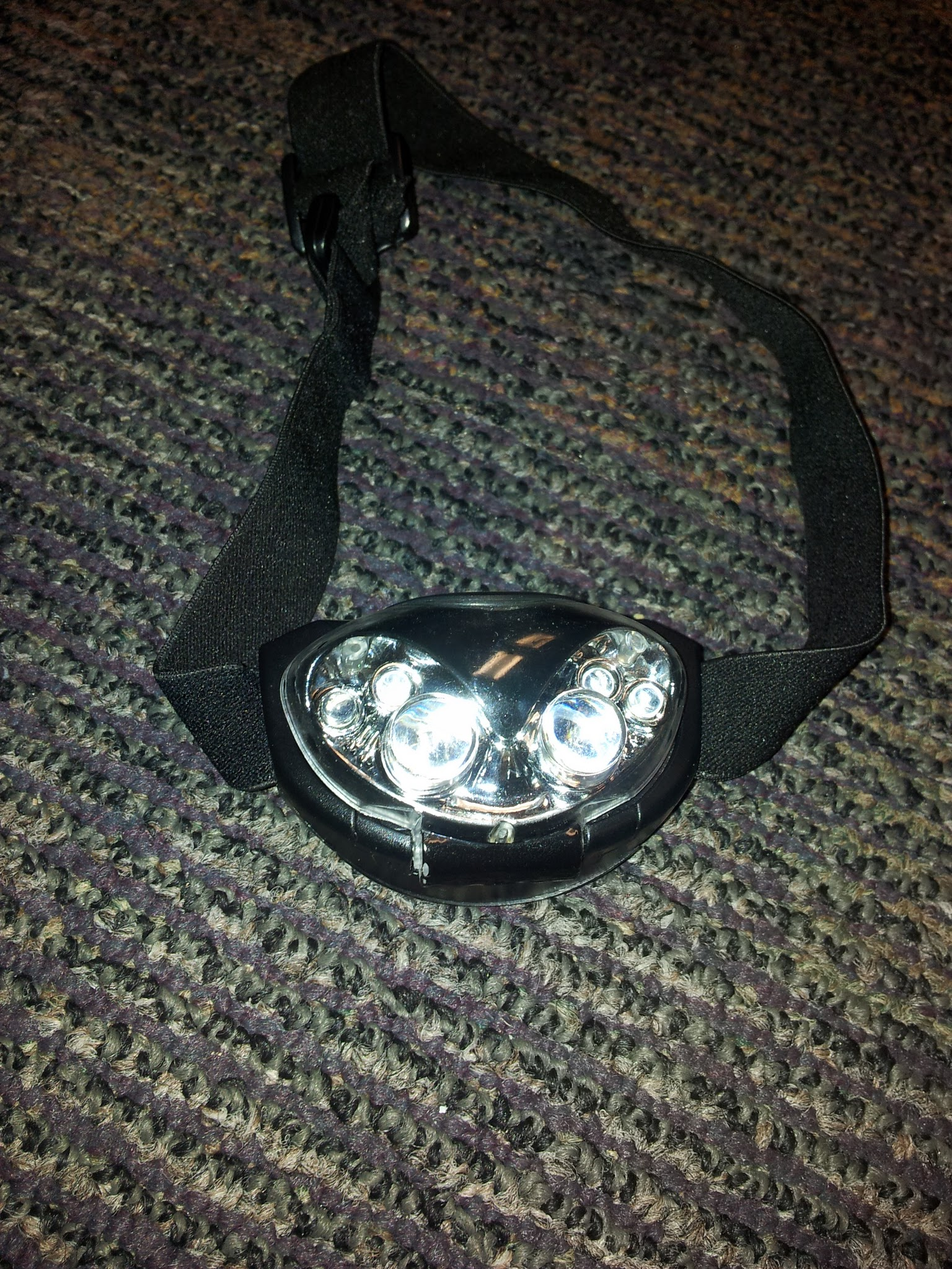
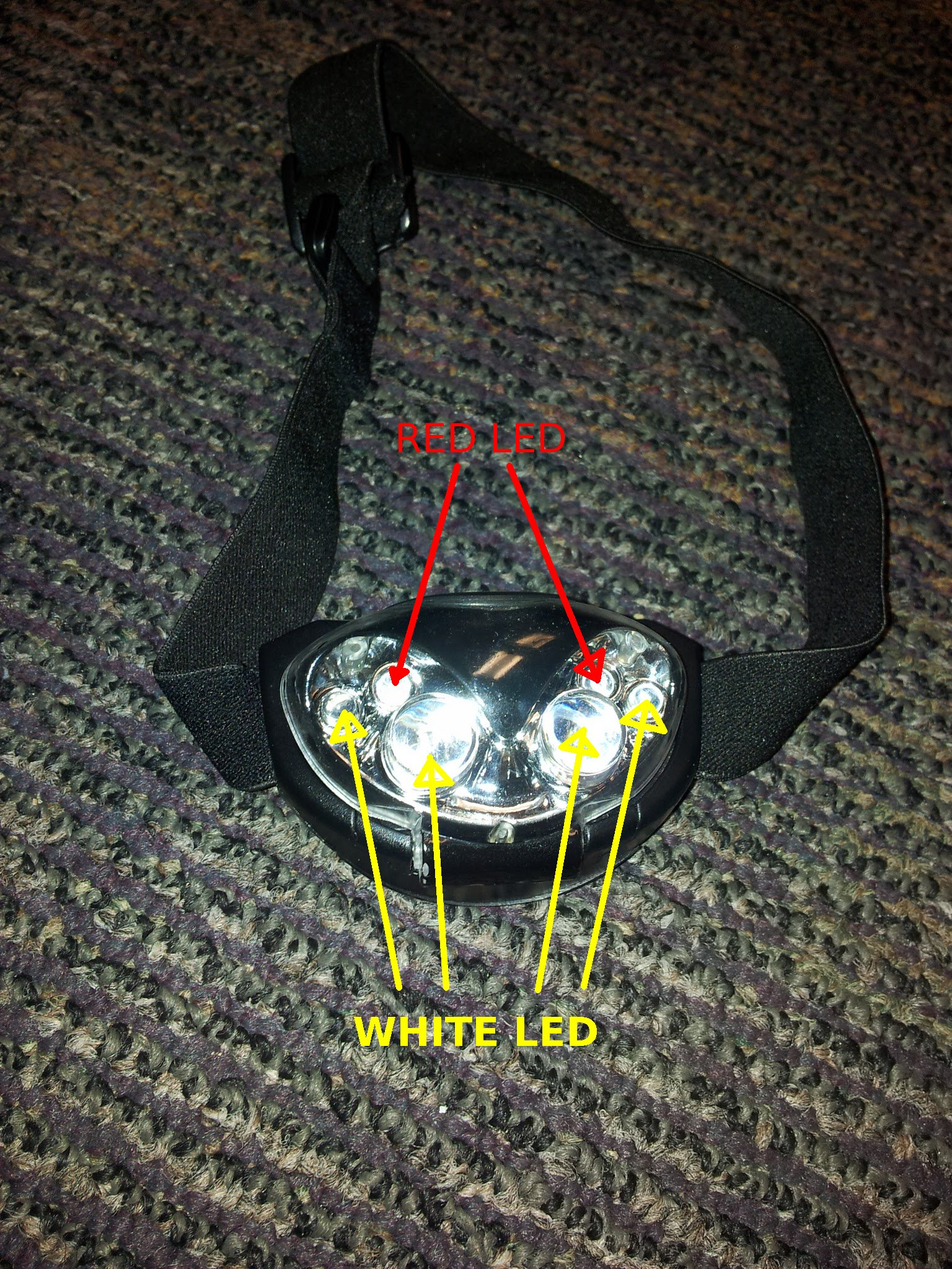
changes.

diff --git a/a1.tex b/a1.tex
@@ -8,7 +8,7 @@
 \usepackage{url}
 
 \def\author{Jacques Uber}
-\def\title{Camping Headlamp}
+\def\title{FredMeyer Camping Headlamp}
 \def\date{\today}
 
 \fancyhf{} % clear all header and footer fields
@@ -17,7 +17,7 @@
 \fancyhead[RO]{\date}
 % The weird spacing here is to get the spacing of \thepage to be right.
 \fancyfoot[C]{\thepage\
-                    / \pageref{LastPage}}
+                    / 5}
 
 \setcounter{secnumdepth}{0}
 \setlength{\parindent}{0pt}
@@ -36,22 +36,34 @@ color to be emitted from the bulbs.
 \includegraphics[width=3in]{headlamp}
 \end{figure}
 
+\begin{figure}[h!]
+\centering
+\caption{Head lamp from the side.}
+\includegraphics[width=3in]{headlamp_side}
+\end{figure}
+
+\begin{figure}[h!]
+\centering
+\caption{Head lamp from the top.}
+\includegraphics[width=3in]{headlamp_top}
+\end{figure}
+
 \section{The Lamp}
 The lamp preforms the primary function of the headlamp. It is roughly 1/4 pounds when loaded with
 it's 3 AAA battery power source. The lamp itself is split into two modules: the bulb housing and the
-battery case. The two modules are joined by a hinge which allows the LEDs (Light Emitting Diodes)
-to be aimed variably.
+battery case. The two modules are joined by a hinge which allows the LEDs (Light Emitting
+Diodes) to be aimed variably. (figure 2)
 
 \subsection{Bulb housing}
 The bulb housing module holds the LEDs, LED casing, and power switch.
 
 \subsubsection{LEDs}
-The lamp has 6 main LEDs, 4 of the LEDs are white and the remaining 2 are red. Of the 4 white LED's
-2 of them have a radius of 0.5cm and are located symmetrically opposite of each other located 1cm
-away from the front center line of the lamp.  The remaining 4 LEDs have a radius of 0.25cm and are
-aligned symmetrically opposite to each other and are lined up starting 2cm away from the front
-center line of the lamp. With regard to the 4 0.5cm LEDs, the two furthest from the center line are
-white, the inner pair are red.
+The lamp has 6 main LEDs, 4 of the LEDs are white and the remaining 2 are red (figure 1). Of the 4
+white LED's 2 of them have a radius of 0.5cm and are located symmetrically opposite of each other
+located 1cm away from the front center line of the lamp.  The remaining 4 LEDs have a radius of
+0.25cm and are aligned symmetrically opposite to each other and are lined up starting 2cm away from
+the front center line of the lamp. With regard to the 4 0.5cm LEDs, the two furthest from the center
+line are white, the inner pair are red.
 
 \subsubsection{LED Casing}
 To protect the LEDs, a clear form fitting case covers the front of the lamp.  The case also acts to
@@ -60,17 +72,17 @@ focus and intensify the light from the LEDs. The case consists of hard plastic a
 
 \subsubsection{Power Toggle}
 Turning on the lamp is done with a plastic yellow power toggle located on the top of the lamp
-directly above the casing and LEDs. The toggle is pressure sensitive.
+directly above the casing and LEDs (figure 3). The toggle is pressure sensitive.
 
 \subsection{Battery Case}
 The majority of the headlamp is used to house the power supply. The supply case is rectangular with
-rounded edges. It is 5cm across, 3cm wide, and 1.5cm deep. When in use the back of the case is
+rounded edges (figure 2). It is 5cm across, 3cm wide, and 1.5cm deep. When in use the back of the case is
 placed on to the users forehead. To make this more comfortable there is a soft black padding on the
 back 5cm by 3cm panel.
 
 \section{The Strap}
 The strap serves the function of holding the headlamp to the users head. The variable length strap
-is at maximum 2 feet long, and at minimum 1/2 foot long. It is made of an elastic material that
+is at maximum 2 feet long, and at minimum 1/2 foot long (figure 3). It is made of an elastic material that
 is black. The elasticity of the strap allows a strip of contracted material to be stretched into a
 strip 2 times it's original length.
 
